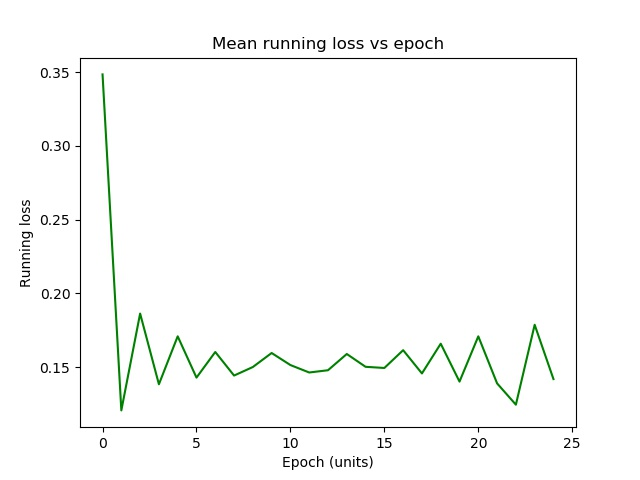
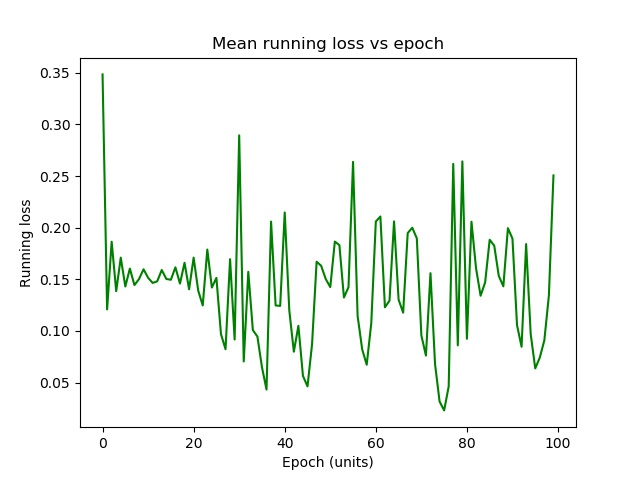
Commit for local repo

diff --git a/LSTM_Test/main.py b/LSTM_Test/main.py
@@ -47,8 +47,8 @@ print('Input file =', inputfile)
 ### Define the Hyperparameters
 
 # Net parameters
-num_epochs = 10#50#200#1000#300#2000
-learning_rate = 0.022472643513504736#0.001#0.001#0.01
+num_epochs = 6000#50#200#1000#300#2000
+learning_rate = 0.001#0.022472643513504736#0.001#0.001#0.01
 input_size = 1
 batch_size = 1  # Unused variable - Batch size is automatically handled (not 1)
 hidden_size = 5#10#100#10#2
@@ -61,11 +61,11 @@ seq_length = 92#12#1000#4  # Train Window
                         # 5min = 1
 train_size = -100#int(len(y) * 0.67)
 test_size = -100#len(y) - train_size  # Unused variable
-fut_pred = 12#200#12#100  # Number of predictions
+fut_pred = 92#200#12#100  # Number of predictions
 dropout = 0#0.05
 
 # Random windows for training
-rw = False#True
+rw = True#False#True
 
 # Parameters in name for .jpg files
 params_name = ('_e' + str(num_epochs) +
@@ -133,8 +133,8 @@ if test_arg:
     test = Test(num_classes, input_size, hidden_size, num_layers, dropout,
                 state_dict_path, current, params_name)
 
-    # Reorder data to original state
-    if rw:
+    # Reorder data to original state just for test and train forcing
+    if train_arg and rw:
         test.include_rw(data.rev_rand)
 
     test.test_model(ind_test, seq_length, fut_pred, data.times_dataY, data.dataX,

diff --git a/LSTM_Test/train.py b/LSTM_Test/train.py
@@ -40,9 +40,9 @@ class Train(object):
         for x in defsX:
             import numpy as np
             try:
-                batches.append({'defsX':torch.index_select(defsX, 0, torch.tensor(np.int64(np.arange(ind,ind+25,1)))),
-                                'defsY':torch.index_select(defsY, 0, torch.tensor(np.int64(np.arange(ind,ind+25,1))))})
-                ind += 25
+                batches.append({'defsX':torch.index_select(defsX, 0, torch.tensor(np.int64(np.arange(ind,ind+200,1)))),
+                                'defsY':torch.index_select(defsY, 0, torch.tensor(np.int64(np.arange(ind,ind+200,1))))})
+                ind += 200
             except:
                 break
         for epoch in tqdm(range(num_epochs), total=num_epochs):
